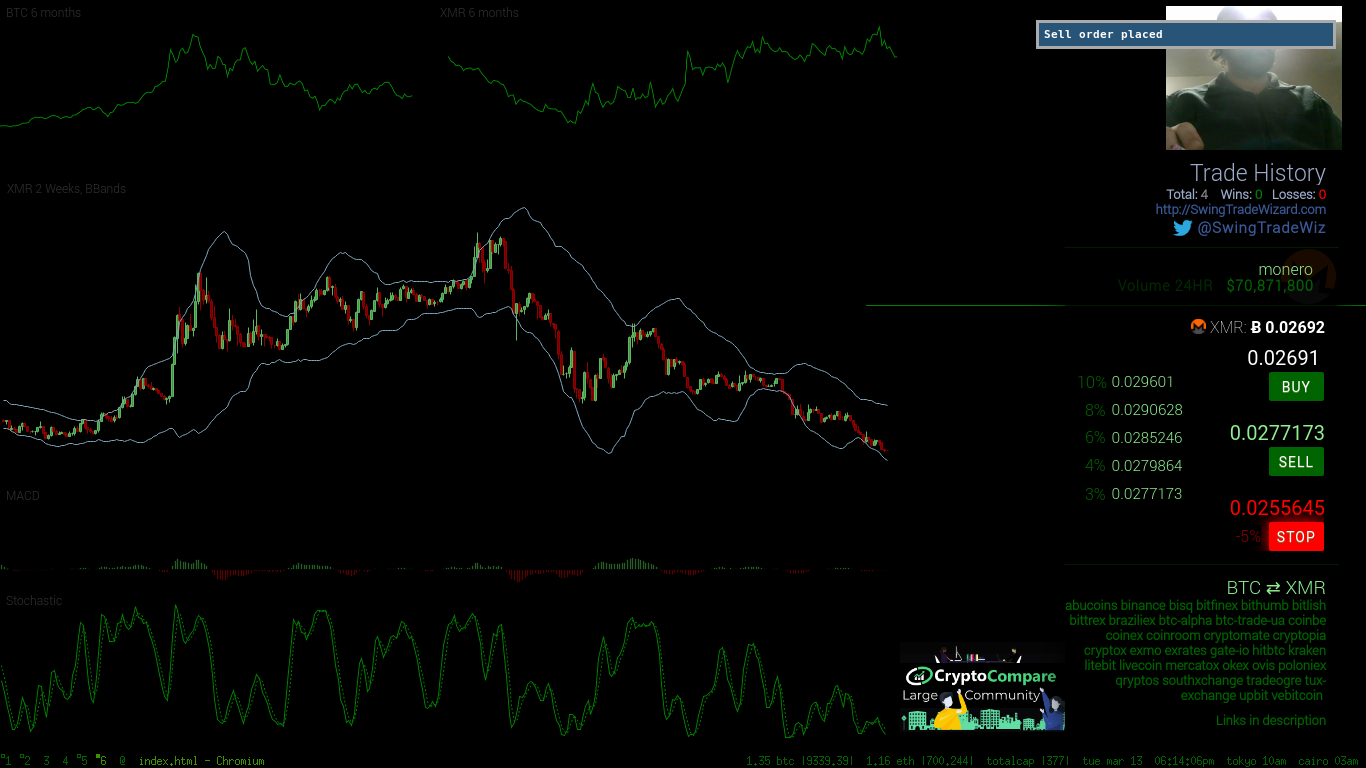
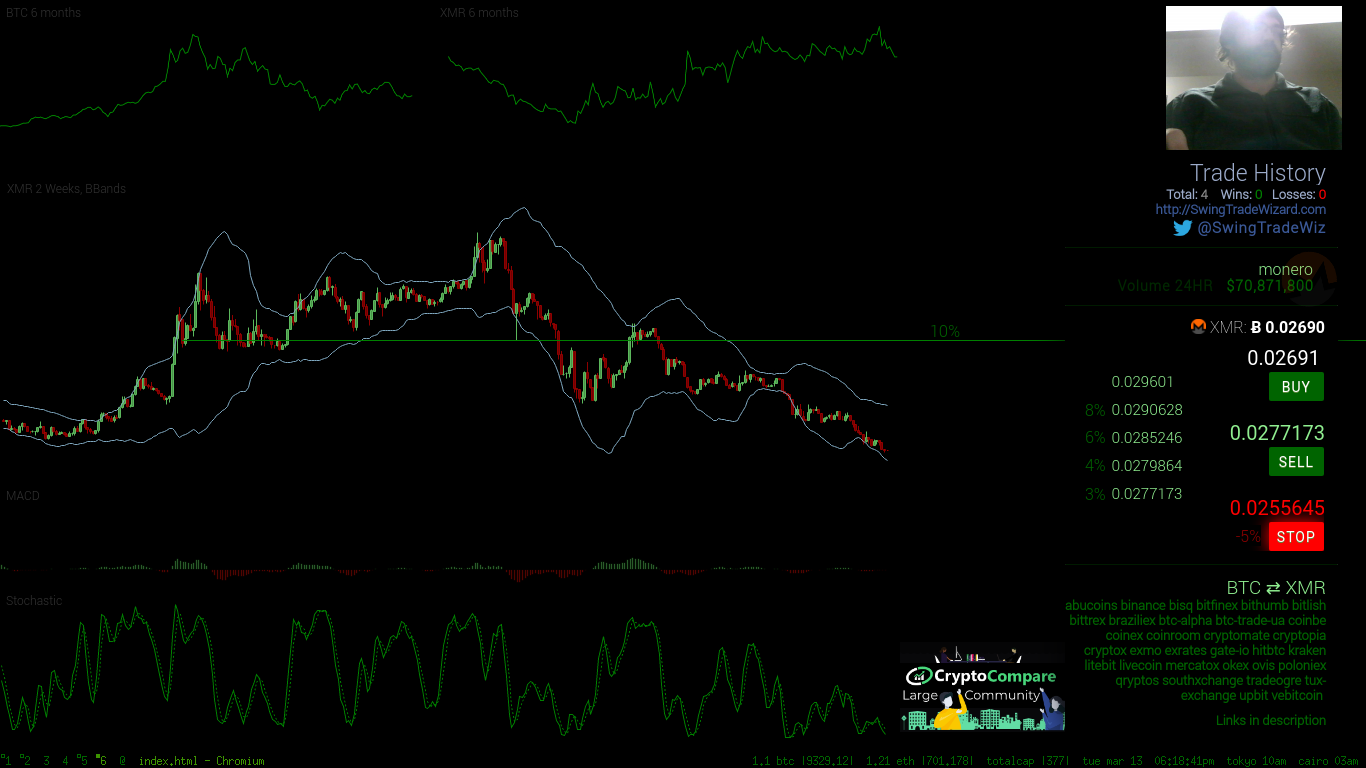
update

Changed region(s): [[0.7379, 0.0, 0.9839, 0.2188], [0.9224, 0.3438, 0.9531, 0.375]]

diff --git a/blog/Trades/1.html b/blog/Trades/1.html
@@ -46,14 +46,14 @@ Swing Trading Resource
 </div>
 </center>
 </div>
-<title>monero trade #2</title>
+<title>monero trade #1</title>
 <!-- Header -->
 <div class='header'>
-	[ <a href='./1.html'>Prev</a> ]
+	[ <a href='../Trades.html'>Prev</a> ]
 
 	[ <span class='insen'>Index</span> ]
 
-	[ <span class='insen'>Next</span> ]
+	[ <a href='./2.html'>Next</a> ]
 </div>
 
 <hr />
@@ -68,8 +68,8 @@ Swing Trading Resource
 <li><a href="../Swing_Trading.html" title="Swing Trading" class="page">Swing Trading</a></li>
 <li><a href="../Trades.html" title="Trades" class="page">Trades</a>
 <ul>
-<li><a href="./1.html" title="1" class="page">1</a></li>
-<li><b>2</b></li>
+<li><b>1</b></li>
+<li><a href="./2.html" title="2" class="page">2</a></li>
 </ul></li>
 </ul>
 
@@ -79,12 +79,12 @@ Swing Trading Resource
 
 <div class='pages'>
 	<div class='heading'>
-	<h1>monero trade #2 <a name='Trades:2'></a></h1>
+	<h1>monero trade #1 <a name='Trades:1'></a></h1>
 	</div>
 
 	<div class='content'>
 	<p>
-<i>Tue Mar 13 18:14:16 PDT 2018</i>
+<i>Tue Mar 13 18:18:57 PDT 2018</i>
 </p>
 
 <p>
@@ -121,11 +121,11 @@ embedder.parentNode.appendChild(s);
 
 
 <h2>Chart Analysis Video</h2>
-<a target="_blank" href="https://www.youtube.com/embed/4m3Jitm-D5g">Watch in fullscreen</a> - <a href="https://www.youtube.com/watch?v=4m3Jitm-D5g&list=PLIEgpo-TeCAQ8RezjUpMqgQDUts2pXFg2" target="_blank">Watch in playlist</a><br><br>
-<div class="video-container"><iframe width="853" height="480" src="https://www.youtube.com/embed/4m3Jitm-D5g" frameborder="0"></iframe></div>
+<a target="_blank" href="https://www.youtube.com/embed/OwUWQ-ZIyqY">Watch in fullscreen</a> - <a href="https://www.youtube.com/watch?v=OwUWQ-ZIyqY&list=PLIEgpo-TeCAQ8RezjUpMqgQDUts2pXFg2" target="_blank">Watch in playlist</a><br><br>
+<div class="video-container"><iframe width="853" height="480" src="https://www.youtube.com/embed/OwUWQ-ZIyqY" frameborder="0"></iframe></div>
 <h2>Chart Analysis Screenshot</h2>
-<a target="_blank" href="http://swingtradewizard.com/images/2.png">Open full size</a><br><br>
-<img style="width:500px;" src="http://swingtradewizard.com/images/2.png">
+<a target="_blank" href="http://swingtradewizard.com/images/1.png">Open full size</a><br><br>
+<img style="width:500px;" src="http://swingtradewizard.com/images/1.png">
 <br><br><a href='https://www.cryptocompare.com/coins/xmr/charts/BTC?t=CS&e=CCCAGG&p=2W&bc=VF' target='_blank'>View chart on Crypto Compare</a>
 <br><h2>XMR Researching</h2>
 <a target="_blank" href="https://hn.algolia.com/?query=%22monero%22&sort=byDate&prefix=false&page=0&dateRange=all&type=story">Hackernews search</a><br>

diff --git a/index.htm b/index.htm
@@ -22,7 +22,7 @@
 
 
 <div class="stats">
-trades: <span class="banner-black" style="color:#6697b4">1 &nbsp;</span> wins: <span class="banner-green">0 &nbsp;</span> losses: <span class="banner-red">0 &nbsp;</span>  
+trades: <span class="banner-black" style="color:#6697b4">2 &nbsp;</span> wins: <span class="banner-green">0 &nbsp;</span> losses: <span class="banner-red">0 &nbsp;</span>  
 </div>
 
 
@@ -63,6 +63,7 @@ Swing Trading Resource
 <div class="table_container">
 <table cellspacing="0" cellpadding="0">
 <tr id="neutral"><td><a name=2 href=http://swingtradewizard.com/blog/Trades/2.html>#2 monero</a></td><td><span data-livestamp="1520990056"></span></td><td>0.02691 </td><td>0.0277173</td><td>0.0255645</td><td>NEUTRALTRADE</td><td><br></td></tr>
+<tr id="neutral"><td><a name=1 href=http://swingtradewizard.com/blog/Trades/1.html>#1 monero</a></td><td><span data-livestamp="1520990337"></span></td><td>0.02691 </td><td>0.0277173</td><td>0.0255645</td><td>NEUTRALTRADE</td><td><br></td></tr>
 </table>
 <title>Homepage</title>
 

diff --git a/blog/Trades.html b/blog/Trades.html
@@ -21,7 +21,7 @@
 
 
 <div class="stats">
-trades: <span class="banner-black" style="color:#6697b4">1 &nbsp;</span> wins: <span class="banner-green">0 &nbsp;</span> losses: <span class="banner-red">0 &nbsp;</span>  
+trades: <span class="banner-black" style="color:#6697b4">2 &nbsp;</span> wins: <span class="banner-green">0 &nbsp;</span> losses: <span class="banner-red">0 &nbsp;</span>  
 </div>
 
 
@@ -53,7 +53,7 @@ Swing Trading Resource
 
 	[ <span class='insen'>Index</span> ]
 
-	[ <a href='./Trades/2.html'>Next</a> ]
+	[ <a href='./Trades/1.html'>Next</a> ]
 </div>
 
 <hr />
@@ -68,6 +68,7 @@ Swing Trading Resource
 <li><a href="./Swing_Trading.html" title="Swing Trading" class="page">Swing Trading</a></li>
 <li><b>Trades</b>
 <ul>
+<li><a href="./Trades/1.html" title="1" class="page">1</a></li>
 <li><a href="./Trades/2.html" title="2" class="page">2</a></li>
 </ul></li>
 </ul>

diff --git a/blog/Buy_BTC.html b/blog/Buy_BTC.html
@@ -21,7 +21,7 @@
 
 
 <div class="stats">
-trades: <span class="banner-black" style="color:#6697b4">1 &nbsp;</span> wins: <span class="banner-green">0 &nbsp;</span> losses: <span class="banner-red">0 &nbsp;</span>  
+trades: <span class="banner-black" style="color:#6697b4">2 &nbsp;</span> wins: <span class="banner-green">0 &nbsp;</span> losses: <span class="banner-red">0 &nbsp;</span>  
 </div>
 
 

diff --git a/blog/Donate.html b/blog/Donate.html
@@ -21,7 +21,7 @@
 
 
 <div class="stats">
-trades: <span class="banner-black" style="color:#6697b4">1 &nbsp;</span> wins: <span class="banner-green">0 &nbsp;</span> losses: <span class="banner-red">0 &nbsp;</span>  
+trades: <span class="banner-black" style="color:#6697b4">2 &nbsp;</span> wins: <span class="banner-green">0 &nbsp;</span> losses: <span class="banner-red">0 &nbsp;</span>  
 </div>
 
 

diff --git a/blog/Forecasting_Wizards.html b/blog/Forecasting_Wizards.html
@@ -21,7 +21,7 @@
 
 
 <div class="stats">
-trades: <span class="banner-black" style="color:#6697b4">1 &nbsp;</span> wins: <span class="banner-green">0 &nbsp;</span> losses: <span class="banner-red">0 &nbsp;</span>  
+trades: <span class="banner-black" style="color:#6697b4">2 &nbsp;</span> wins: <span class="banner-green">0 &nbsp;</span> losses: <span class="banner-red">0 &nbsp;</span>  
 </div>
 
 

diff --git a/blog/Homepage.html b/blog/Homepage.html
@@ -21,7 +21,7 @@
 
 
 <div class="stats">
-trades: <span class="banner-black" style="color:#6697b4">1 &nbsp;</span> wins: <span class="banner-green">0 &nbsp;</span> losses: <span class="banner-red">0 &nbsp;</span>  
+trades: <span class="banner-black" style="color:#6697b4">2 &nbsp;</span> wins: <span class="banner-green">0 &nbsp;</span> losses: <span class="banner-red">0 &nbsp;</span>  
 </div>
 
 

diff --git a/blog/Resources.html b/blog/Resources.html
@@ -21,7 +21,7 @@
 
 
 <div class="stats">
-trades: <span class="banner-black" style="color:#6697b4">1 &nbsp;</span> wins: <span class="banner-green">0 &nbsp;</span> losses: <span class="banner-red">0 &nbsp;</span>  
+trades: <span class="banner-black" style="color:#6697b4">2 &nbsp;</span> wins: <span class="banner-green">0 &nbsp;</span> losses: <span class="banner-red">0 &nbsp;</span>  
 </div>
 
 

diff --git a/blog/Swing_Trading.html b/blog/Swing_Trading.html
@@ -21,7 +21,7 @@
 
 
 <div class="stats">
-trades: <span class="banner-black" style="color:#6697b4">1 &nbsp;</span> wins: <span class="banner-green">0 &nbsp;</span> losses: <span class="banner-red">0 &nbsp;</span>  
+trades: <span class="banner-black" style="color:#6697b4">2 &nbsp;</span> wins: <span class="banner-green">0 &nbsp;</span> losses: <span class="banner-red">0 &nbsp;</span>  
 </div>
 
 

diff --git a/blog/biz.html b/blog/biz.html
@@ -21,7 +21,7 @@
 
 
 <div class="stats">
-trades: <span class="banner-black" style="color:#6697b4">1 &nbsp;</span> wins: <span class="banner-green">0 &nbsp;</span> losses: <span class="banner-red">0 &nbsp;</span>  
+trades: <span class="banner-black" style="color:#6697b4">2 &nbsp;</span> wins: <span class="banner-green">0 &nbsp;</span> losses: <span class="banner-red">0 &nbsp;</span>  
 </div>
 
 

diff --git a/top.htm b/top.htm
@@ -22,7 +22,7 @@
 
 
 <div class="stats">
-trades: <span class="banner-black" style="color:#6697b4">1 &nbsp;</span> wins: <span class="banner-green">0 &nbsp;</span> losses: <span class="banner-red">0 &nbsp;</span>  
+trades: <span class="banner-black" style="color:#6697b4">2 &nbsp;</span> wins: <span class="banner-green">0 &nbsp;</span> losses: <span class="banner-red">0 &nbsp;</span>  
 </div>
 
 

diff --git a/log/index.htm b/log/index.htm
@@ -1,3 +1,4 @@
+2018-03-13 Tuesday 6 PM - Trade #1... +3% call with monero<br><br>
 2018-03-13 Tuesday 6 PM - Trade #2... +3% call with monero<br><br>
 2018-03-13 Tuesday 6 PM - Trade #2... +3% call with monero<br><br>
 2018-03-12 Monday12 PM - Trade #5... +3% call with monero<br><br>
